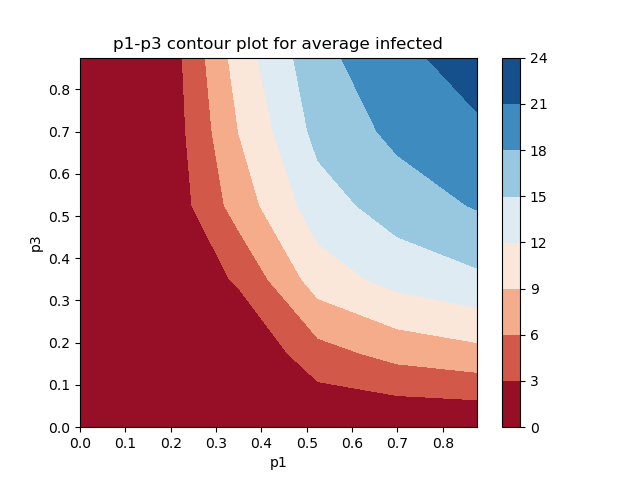
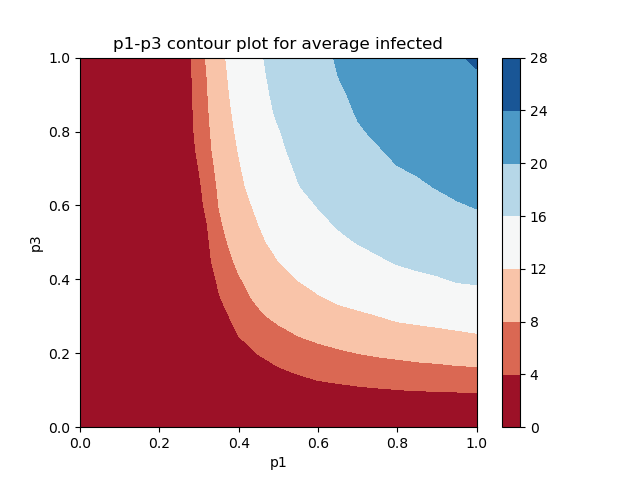
updated graphs

diff --git a/CP2/SIRS/plotting.py b/CP2/SIRS/plotting.py
@@ -15,24 +15,27 @@ sys.path.append('../GameOfLife')
 
 from gol_sim import read_file
 
-positions = read_file("Coordinate lists")
+positions = read_file("Coordinate_lists")
 positions = [positions[i].rstrip().lstrip() for i in range(len(positions))]
 positions = [positions[i].split() for i in range(len(positions))]
 positions = (np.array(positions)).astype(float)
-data = read_file("Average energy lists")
+data = read_file("Average_energy_lists")
 data = [data[i].rstrip().lstrip() for i in range(len(data))]
 data = (np.array(data)).astype(float)
 
 fig = plt.figure()
 ax = fig.add_subplot(111, projection='3d')
-ax.trisurf(positions[:,0], positions[:,1], data, c='r', marker='o')
+ax.scatter(positions[:,0], positions[:,1], data, c='r', marker='o')
+plt.show()
 
-#plt.show()
+# reshape param
+shape = int(np.sqrt(len(positions[:,0])))
+
 
 # Reshaping data to be acceptable
-POS0 = positions[:,0].reshape(6,6)
-POS1 = positions[:,1].reshape(6,6)
-DATA = data.reshape(6,6)
+POS0 = positions[:,0].reshape(shape,shape)
+POS1 = positions[:,1].reshape(shape,shape)
+DATA = data.reshape(shape,shape)
 
 cont = plt.contourf(POS0, POS1, DATA, cmap='RdBu')
 plt.colorbar(cont)
